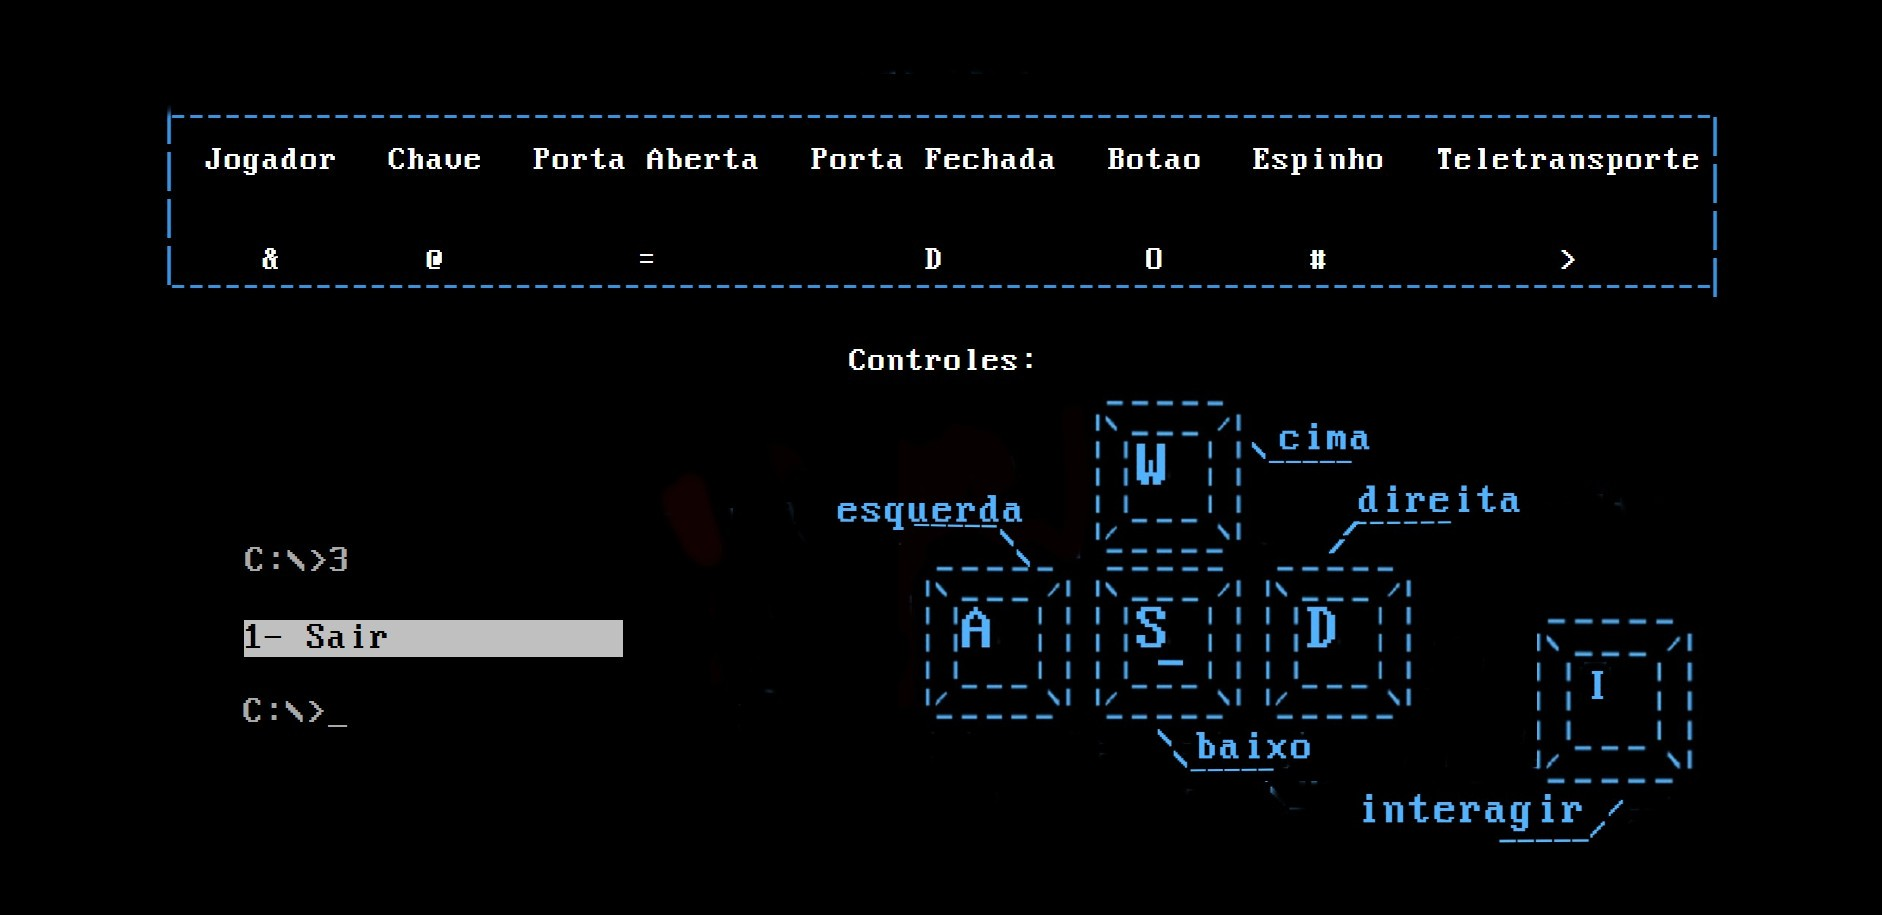
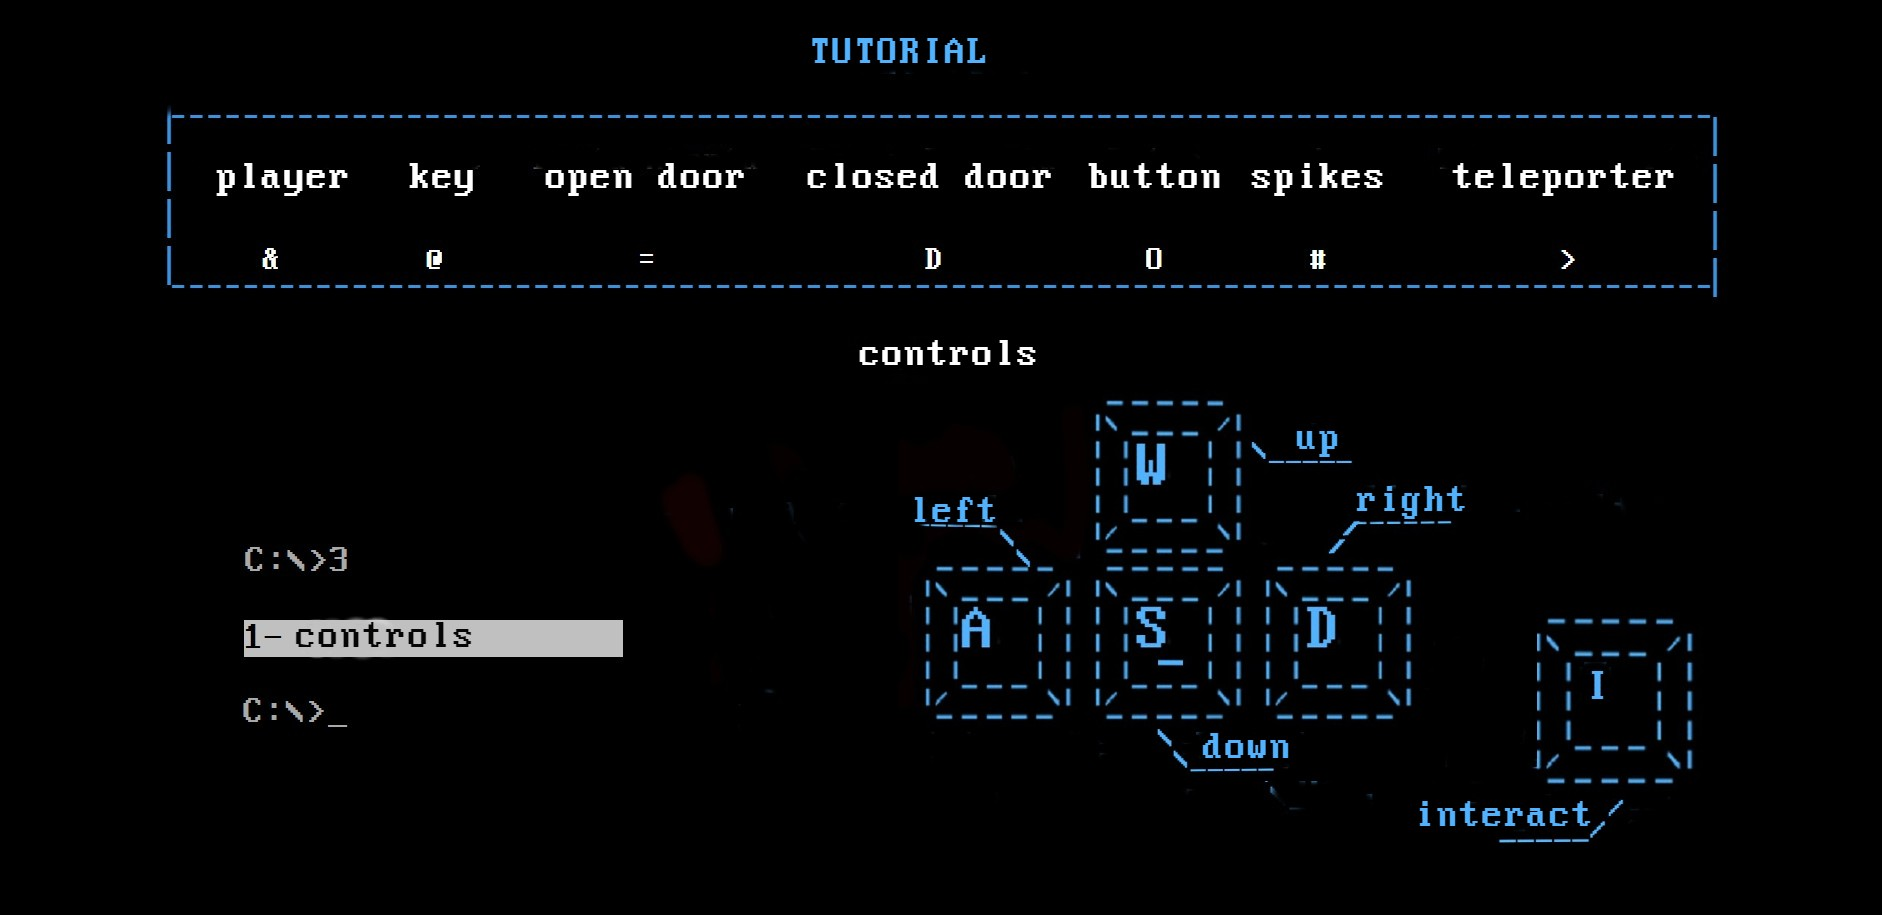
Final version

diff --git a/main.js b/main.js
@@ -81,32 +81,32 @@ function GameMenu() {
     const dialogo = document.getElementById("lore");
 
     const texto = [
-      "> ellis used to be just a normal worker at the &nterprise",
-      "> there, their main function was to code E-thereo",
-      "> though, the truth is, they never understood what E-thereo's purpose was",
-      "> ellis always assumed it was a game",
-      "> however ",
-      "> that couldn't be further from the truth ",
-      "> one day, while staying for longer in the office, they overheard two other employees talking",
-      "> 'did you hear about that employee #427?'",
-      "> 'the one who vanished? wasn't he involved in some kind of conspiracy'",
-      "> 'they call it a conspiracy, but what if it's actually the truth?'",
-      "> 'you really think so? that the code is-'",
-      "> 'SHHH! others might hear us!'",
-      "> given their strong sense of justice and lots of time to spare...",
-      "> ellis decided to find out what they were talking about",
-      "> so they had a plan:",
-      "> #1: break in employee #427's house and steal the keys to the &nterprise's garbage dump",
-      "> #2: infiltrate the main computer room through the dump",
-      "> #3: find out the true purpose of E-thereo",
-      "> so, when the day came, they left their home to put the plan in practice",
-      "> in the way, they thought they heard a faint voice saying:",
-      "> press y to begin",
+      "> Ellis used to be just a normal worker at the &nterprise.",
+      "> There, their main function was to code E-thereo.",
+      "> Though, the truth is, they never understood what E-thereo's purpose was.",
+      "> Ellis always assumed it was a game.",
+      "> However,",
+      "> That couldn't be further from the truth.",
+      "> One day, while staying for longer in the office, they overheard two other employees talking.",
+      "> 'Did you hear about that employee #427?'",
+      "> 'The one who vanished? Wasn't he involved in some kind of conspiracy?'",
+      "> 'They call it a conspiracy, but what if it's actually the truth?'",
+      "> 'You really think so? That the code is-'",
+      "> 'SHHH! Others might hear us!'",
+      "> Given their strong sense of justice and lots of time to spare...",
+      "> Ellis decided to find out what they were talking about.",
+      "> So they had a plan:",
+      "> #1: Break in employee #427's house and steal the keys to the &nterprise's garbage dump.",
+      "> #2: Infiltrate the main computer room through the dump.",
+      "> #3: Find out the true purpose of E-thereo.",
+      "> So, when the day came, they left their home to put the plan in practice.",
+      "> In the way, they thought they heard a faint voice saying:",
+      "> Press y to begin.",
     ];
 
     document.getElementById(
       "lore"
-    ).innerHTML = `<br>> this is the the story of ellis`;
+    ).innerHTML = `<br>> This is the the story of Ellis.`;
 
     var tamanho = texto.length;
     var i = 0;
@@ -152,7 +152,7 @@ function GameMenu() {
             ShowDialogue(callDialog());
 
             document.addEventListener("keydown", (event) => {
-              if (event.key === "y") {
+              if (event.key === "y" || event.key === "Y") {
                 ShowGame();
               }
             });
@@ -466,7 +466,7 @@ function GameLogic() {
 
       if (levelIndex === 2) {
         document.getElementById("game-levelone").innerHTML = `
-        <center>Game Over <br><br><br><br> aperte enter para tentar novamente</center>`;
+        <center>Game Over <br><br><br><br> Press Enter to try again.</center>`;
         document.getElementById("life-counter").innerHTML = `<center> 
         ---------------
         | lives:      |
@@ -485,7 +485,7 @@ function GameLogic() {
       } else if (levelIndex === 3) {
         document.getElementById(
           "game-levelone"
-        ).innerHTML = `<center>Game Over <br><br><br><br> aperte enter para tentar novamente</center>`;
+        ).innerHTML = `<center>Game Over <br><br><br><br> Press Enter to try again.</center>`;
         keyX = 19;
         keyY = 17;
         buttonX = 43;
@@ -499,7 +499,7 @@ function GameLogic() {
       } else if (levelIndex === 4) {
         document.getElementById(
           "game-levelone"
-        ).innerHTML = `<center>Game Over <br><br><br><br> aperte enter para tentar novamente</center>`;
+        ).innerHTML = `<center>Game Over <br><br><br><br> Press Enter to try again.</center>`;
         keyX = null;
         keyY = null;
         buttonX = 43;
@@ -607,7 +607,6 @@ function GameLogic() {
             doorOpen = false;
             keyUsed = false;
             buttonPressed = false;
-            button2Pressed = false;
             playerLifes = 2;
             LevelMap();
             console.log(playerLifes);
@@ -623,7 +622,6 @@ function GameLogic() {
             doorOpen = false;
             keyUsed = false;
             buttonPressed = false;
-            button2Pressed = false;
             playerLifes = 1;
             LevelMap();
             console.log(playerLifes);
@@ -789,10 +787,10 @@ function GameLogic() {
     function dialogue() {
       if (!button2Pressed) {
         // aqui fica o diálogo do início do boss
-        levelLogic[24] = "you don't need to do this, E-thereo is the future of humankind"; // placeholder
+        levelLogic[24] = "You don't need to do this, E-thereo is the future of humankind."; // placeholder
       } else if (button2Pressed) {
         // aqui fica o diálogo após o primeiro hit
-        levelLogic[24] = "there is no turning back now, any efforts are useless, E-thereo is anima mundi"; // placeholder
+        levelLogic[24] = "There is no turning back now, any efforts are useless, E-thereo is anima mundi."; // placeholder
       }
       LevelMap();
     }
@@ -848,7 +846,7 @@ function GameLogic() {
         function dialogue2() {
           if (!button2Pressed) {
             // aqui é o diálogo que segue a primeira fase
-            levelLogic[24] = "humankind will ascend to the digital world and be immortal, like #427"; // placeholder
+            levelLogic[24] = "Humankind will ascend to the digital world and be immortal, like #427."; // placeholder
             LevelMap();
           }
         }
@@ -874,32 +872,32 @@ function GameLogic() {
     function dialogue() {
       // aqui fica o diálogo do fim do boss
       levelLogic[24] =
-        "i understand your efforts. But its everything done, E-thereo is the new world to humankind, accept your fate.";
-      levelLogic[25] = "E-thereo is the project that will connect everyone in the digital world, making the human soul immortal" 
-      levelLogic[26] = "and for that, you must leave your body, i'll kill your weak body and make you a perfect soul in the digital world"
-      levelLogic[27] = "we are E-thereo, we are all connected. Welcome home, user E-llis"// placeholder
+        "I understand your efforts. But now everything is done, E-thereo is the new world to humankind, accept your fate.";
+      levelLogic[25] = "E-thereo is the project that will connect everyone in the digital world, making the human soul immortal." 
+      levelLogic[26] = "And for that, you must leave your body, I'll kill your weak body and make you a perfect soul in the digital world"
+      levelLogic[27] = "WE are E-thereo, WE are all connected. Welcome home, user E-llis."// placeholder
       LevelMap();
     }
     function gif1(){
-      document.getElementById("game-levelone").innerHTML = `<img src="http://cs.gettysburg.edu/~duncjo01/archive/patterns/lain/Static2.gif ">`
+      document.getElementById("game-levelone").innerHTML = `<img src="http://cs.gettysburg.edu/~duncjo01/archive/patterns/lain/Static2.gif"> <br> Congratulations! You've became E-thereo.">`
     }
     function gif2(){
-      document.getElementById("game-levelone").innerHTML = `<img src="http://cs.gettysburg.edu/~duncjo01/archive/patterns/lain/Guest.gif ">`
+      document.getElementById("game-levelone").innerHTML = `<img src="http://cs.gettysburg.edu/~duncjo01/archive/patterns/lain/Guest.gif"> <br> Congratulations! You've became E-thereo.`
     }
     function gif3(){
-      document.getElementById("game-levelone").innerHTML = `<img src="http://cs.gettysburg.edu/~duncjo01/archive/patterns/lain/User.gif ">`
+      document.getElementById("game-levelone").innerHTML = `<img src="http://cs.gettysburg.edu/~duncjo01/archive/patterns/lain/User.gif"> <br> Congratulations! You've became E-thereo.`
     }
     function gif4(){
-      document.getElementById("game-levelone").innerHTML = `<img src="http://cs.gettysburg.edu/~duncjo01/archive/patterns/lain/eyeLain.gif ">`
+      document.getElementById("game-levelone").innerHTML = `<img src="http://cs.gettysburg.edu/~duncjo01/archive/patterns/lain/eyeLain.gif"> <br> Congratulations! You've became E-thereo.`
     }
     function gif5(){
-      document.getElementById("game-levelone").innerHTML = `<img src="http://cs.gettysburg.edu/~duncjo01/archive/patterns/lain/ghost3.gif ">`
+      document.getElementById("game-levelone").innerHTML = `<img src="http://cs.gettysburg.edu/~duncjo01/archive/patterns/lain/ghost3.gif"> <br> Congratulations! You've became E-thereo.`
     }
     function gif6(){
-      document.getElementById("game-levelone").innerHTML = `<img src="http://cs.gettysburg.edu/~duncjo01/archive/patterns/lain/handsL1.gif ">`
+      document.getElementById("game-levelone").innerHTML = `<img src="http://cs.gettysburg.edu/~duncjo01/archive/patterns/lain/handsL1.gif"> <br> Congratulations! You've became E-thereo.`
     }
     function gif7(){
-      document.getElementById("game-levelone").innerHTML = `<img src="http://cs.gettysburg.edu/~duncjo01/archive/patterns/lain/LAINHADN3.gif   ">`
+      document.getElementById("game-levelone").innerHTML = `<img src="http://cs.gettysburg.edu/~duncjo01/archive/patterns/lain/LAINHADN3.gif"> <br> Congratulations! You've became E-thereo.`
     }
     function reload(){
       location.reload()

diff --git a/index.html b/index.html
@@ -22,9 +22,9 @@
         <div id="menu-screen-prompt">
           <ul>
             <p>Starting MS-DOS...</p>
-            <li>1- Jogar</li>
+            <li>1- Play</li>
             <li>2- Tutorial</li>
-            <li>3- Sair</li>
+            <li>3- Exit</li>
             <p>C:\>_</p>
           </ul>
         </div>
@@ -36,9 +36,9 @@
       </div>
 
       <div id="exit-screen">
-        <p id="exit=message">Saindo da experiência...</p>
+        <p id="exit=message">Leaving the experience...</p>
         <div id="exit-screen-prompt">
-          <p>C:\>Sair</p>
+          <p>C:\>Exit</p>
           <p>Shutting Down...</p>
         </div>
       </div>
@@ -49,7 +49,6 @@
     <div>
       <div id="life-counter"></div>
       <div id="game-levelone"></div>
-      <div id="end"></div>
     </div>
   </body>
 </html>

diff --git a/styles.css b/styles.css
@@ -180,7 +180,7 @@ body {
   color: white;
   justify-content: center;
   align-items: center;
-  margin-top: 450px;
+  margin-top: 100px;
   font-size: 30px;
 }
 
@@ -221,3 +221,4 @@ body {
   color: azure;
   text-align: center;
 }
+
